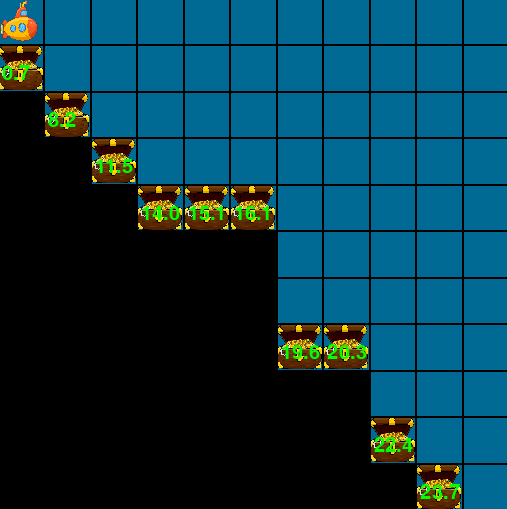
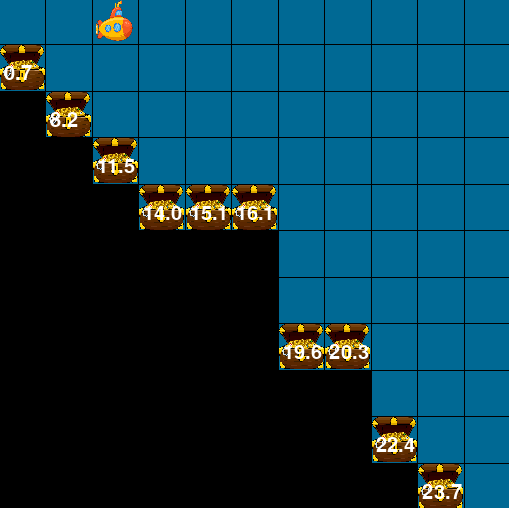
Update DST render

diff --git a/mo_gym/deep_sea_treasure/deep_sea_treasure.py b/mo_gym/deep_sea_treasure/deep_sea_treasure.py
@@ -92,13 +92,13 @@ class DeepSeaTreasure(gym.Env):
                         canvas,
                         (0, 0, 0),
                         pygame.Rect(
-                            pix_square_size * np.array([j,i]) + 0.5,
+                            pix_square_size * np.array([j,i]) + 0.6,
                             (pix_square_size, pix_square_size),
                         ),
                     )
                 elif self.sea_map[i,j] != 0:
                    canvas.blit(self.treasure_img, np.array([j,i]) * pix_square_size)
-                   img = self.font.render(str(self.sea_map[i,j]), True, (0,255,0))
+                   img = self.font.render(str(self.sea_map[i,j]), True, (255, 255, 255))
                    canvas.blit(img, np.array([j,i]) * pix_square_size + np.array([5, 20]))
  
         canvas.blit(self.submarine_img, self.current_state[::-1] * pix_square_size)
@@ -109,14 +109,14 @@ class DeepSeaTreasure(gym.Env):
                 0,
                 (0, pix_square_size * x),
                 (self.window_size, pix_square_size * x),
-                width=2,
+                width=1,
             )
             pygame.draw.line(
                 canvas,
                 0,
                 (pix_square_size * x, 0),
                 (pix_square_size * x, self.window_size),
-                width=2,
+                width=1,
             )
 
         if mode == "human":
@@ -178,6 +178,8 @@ if __name__ == '__main__':
     env = DeepSeaTreasure()
     done = False
     env.reset()
-    while not done:
+    while True:
         env.render()
         obs, r, done, info = env.step(env.action_space.sample())
+        if done:
+            env.reset()
